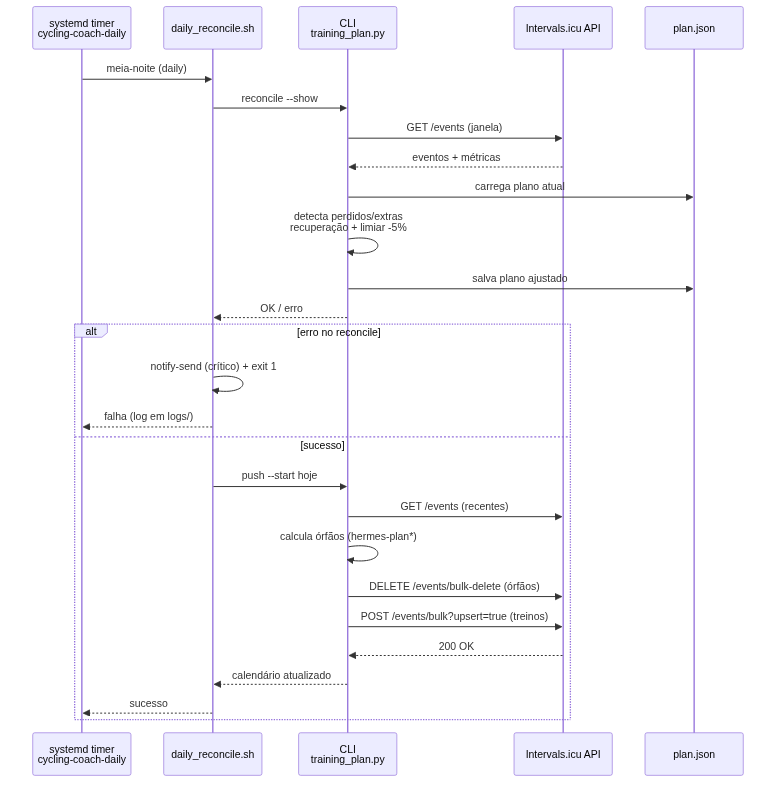
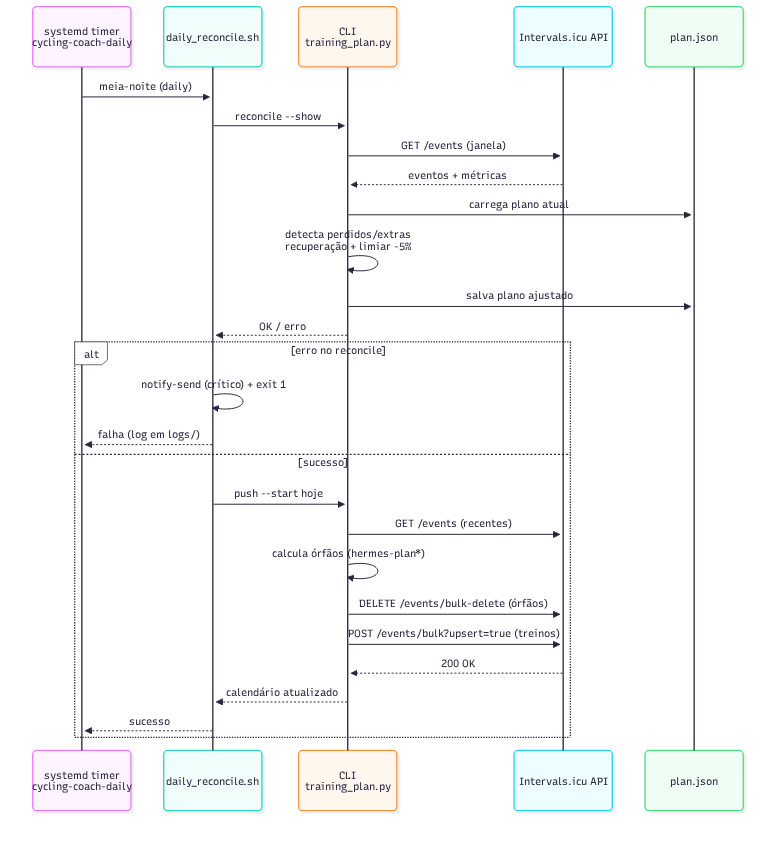
docs: diagramas atualizados para v0.0.27 (check, PERIODIZATION, readiness) e PNGs regenerados

diff --git a/docs/DIAGRAMAS.md b/docs/DIAGRAMAS.md
@@ -1,6 +1,6 @@
 # Diagramas UML — Hermes Coach
 
-Diagramas em [Mermaid](https://mermaid.js.org) do sistema real (v0.0.25).
+Diagramas em [Mermaid](https://mermaid.js.org) do sistema real (v0.0.27).
 Renderizam nativo no Obsidian (bloco ` ```mermaid `) e no GitHub. Os `.mmd`
 fonte vivem em `docs/diagramas/` (geram os `.png` via mermaid-cli).
 
@@ -8,13 +8,14 @@ Legenda rápida dos módulos:
 
 | Módulo | Responsabilidade |
 |---|---|
-| `src/training_plan.py` | CLI: `info` / `ftp-check` / `ftp-scan` / `model` / `recovery` / `build` / `adherence` / `summary` / `reconcile` / `push` / `all` |
+| `src/training_plan.py` | CLI: `info` / `ftp-check` / `ftp-scan` / `check` / `model` / `recovery` / `build` / `adherence` / `summary` / `reconcile` / `push` / `all` |
 | `src/coach.py` | Métricas (TSB/CTL/ATL), foco do dia, prescrição (`WorkoutParams`), TSS estimado |
-| `src/plan.py` | Plano semanal (`build_plan`), ajuste por carga (`_fit_budget`), `reconcile`, texto do treino, `event_payload` |
+| `src/plan.py` | Plano semanal (`build_plan` + `PERIODIZATION`), ajuste por carga (`_fit_budget`), `reconcile`, texto do treino, `event_payload` |
 | `src/impulse_response.py` | Motor Banister local (CTL/ATL/TSB) + séries diárias de TSS |
-| `src/intervals_client.py` | Cliente da API do Intervals.icu (events, wellness, activities, streams, sport-settings) |
+| `src/intervals_client.py` | Cliente da API do Intervals.icu (events, wellness, activities, streams, sport-settings) com retry/backoff |
 | `src/ftp_scan.py` / `ftp_estimation.py` | Análise de treinos fora do plano → proposta de FTP (20min × 0,95) |
 | `src/recovery.py` | Retorno a forma: PMC real (EWMA 42/7) + prazo + rampa segura com deload |
+| `src/readiness.py` | Prontidão do dia (`check`): sinais de wellness (RHR/HRV/sono) → sugestão de troca por recuperação + alerta de início de doença (+ `COACH_WEBHOOK`) |
 | `src/activity_summary.py` | Resumo dos treinos feitos por dia/semana/mês (`summary`) |
 | `src/charts.py` | Gráficos em texto: PMC trailing 90d + carga semanal (TSS/ISO) |
 | `src/report.py` | Relatório com gráficos SVG: HTML direto / PDF via chromium headless (`--export`) |
@@ -29,16 +30,17 @@ Legenda rápida dos módulos:
 ```mermaid
 flowchart LR
     subgraph CLI["CLI — src/training_plan.py"]
-        CMD["info | ftp-check | ftp-scan | model | recovery<br/>build | adherence | summary | reconcile | push | all"]
+        CMD["info | ftp-check | ftp-scan | check | model | recovery<br/>build | adherence | summary | reconcile | push | all"]
     end
 
     subgraph CORE["Motor de coaching"]
         COACH["coach.py<br/>métricas · foco · prescrição"]
-        PLAN["plan.py<br/>build_plan · reconcile · event_payload"]
+        PLAN["plan.py<br/>build_plan · PERIODIZATION · reconcile · event_payload"]
         IR["impulse_response.py<br/>CTL/ATL/TSB local"]
         FTPS["ftp_scan.py + ftp_estimation.py<br/>proposta de FTP"]
         AS["activity_summary.py<br/>resumo por período · pareamento"]
         REC["recovery.py<br/>PMC real + prazo de retorno + rampa"]
+        RD["readiness.py<br/>prontidão: sinais wellness · sugestão de troca · alerta doença"]
     end
 
     subgraph REPORT["Relatório (#21)"]
@@ -48,10 +50,10 @@ flowchart LR
     end
 
     subgraph API["intervals_client.py"]
-        CLIENT["IntervalsClient<br/>events · wellness · activities · streams · sport-settings"]
+        CLIENT["IntervalsClient<br/>events · wellness · activities · streams · sport-settings<br/>(retry/backoff em falhas transitórias)"]
     end
 
-    ENV[".env<br/>credenciais · FTP · agenda · GOAL"]
+    ENV[".env<br/>credenciais · FTP · agenda · GOAL · PERIODIZATION<br/>COACH_WEBHOOK (alerta doença)"]
     PLANFILE["plan.json<br/>plano + meta"]
     SH["scripts/daily_reconcile.sh<br/>(timer systemd meia-noite)"]
 
@@ -64,6 +66,7 @@ flowchart LR
     CMD --> FTPS
     CMD --> AS
     CMD --> REC
+    CMD --> RD
     CMD --> CH
     CMD --> RP
     COACH --> IR
@@ -71,8 +74,10 @@ flowchart LR
     PLAN --> PLANFILE
     COACH --> ENV
     PLAN --> ENV
+    RD --> ENV
     AS --> CLIENT
     REC --> CLIENT
+    RD --> CLIENT
     CLIENT --> INTERVALS
     INTERVALS <--> APPS
     SH --> CMD
@@ -131,9 +136,21 @@ sequenceDiagram
     C->>I: GET /events (60d)
     I-->>C: histórico
     C->>C: latest_metrics → TSB
-    C->>C: build_plan (GOAL + WEEKLY_BY_TSB +<br/>WEEKLY_HOURS + LONG_DAY + budget TSS)
+    C->>C: build_plan (GOAL + PERIODIZATION +<br/>WEEKLY_BY_TSB + WEEKLY_HOURS +<br/>LONG_DAY + budget TSS)
     Note over C: preserva treino de hoje<br/>do plano anterior
     C->>P: salva plan.json (treinos + meta)
+
+    U->>C: check --apply (opcional, v0.0.27)
+    C->>I: GET /wellness (janela)
+    I-->>C: RHR · HRV · sono · readiness
+    C->>C: assess_readiness → sinais
+    alt possível início de doença
+        C-->>U: ALERTA: RHR 2+ noites + HRV caindo
+        C->>C: COACH_WEBHOOK (se configurado)
+    end
+    C->>C: sugere troca por recuperação Z2?
+    Note over C: decisão é do atleta —<br/>nunca impõe
+    C->>P: check --apply: substitui treino de hoje
 
     U->>C: reconcile --show
     C->>I: GET /events (janela)
@@ -218,6 +235,16 @@ classDiagram
         +time_to_target(ctl_now, target, ramp, ...)
         +safe_ramp(target_ctl, weeks, ...)
     }
+    class Readiness {
+        +dict signals
+        +bool illness
+        +str reason
+        +bool has_data
+        +assess_readiness(records, days)
+        +suggest_swap(readiness, planned_today)
+        +recovery_workout(day, ftp) -> PlannedWorkout
+        +coach_alert_payload(atleta_id, readiness, today)
+    }
     class SummaryAgg {
         +int workouts
         +float load
@@ -243,6 +270,8 @@ classDiagram
     ImpulseResponseEngine --> Metrics : computa local
     FTPScan --> IntervalsClient : streams + atividades
     Recovery --> IntervalsClient : eventos históricos
+    Readiness --> IntervalsClient : wellness (RHR/HRV/sono)
+    Readiness --> PlannedWorkout : recovery_workout (check --apply)
     SummaryAgg <-- IntervalsClient : atividades pareadas
     ReportRenderer --> ThemeKit : 22 temas (CSS vars)
     ReportRenderer --> SummaryAgg : cards + tabela
@@ -258,24 +287,27 @@ Fluxo do `build`: do histórico ao plano publicado.
 ```mermaid
 flowchart TD
     A["GET /events (histórico)"] --> B["latest_metrics → TSB atual"]
-    B --> C{"GOAL no .env?"}
-    C -- "não" --> D["WEEKLY_BY_TSB<br/>(padrão por TSB)"]
-    C -- "sim" --> E["GOAL_TEMPLATES[goal]<br/>(ex.: race exige RACE_DATE)"]
+    B --> C{"PERIODIZATION no .env?"}
+    C -- "sim" --> D["PERIODIZATION_TEMPLATES[p]<br/>(polarized|pyramidal|undulating|linear|block)"]
+    C -- "não" --> E{"GOAL no .env?"}
+    E -- "não" --> F["WEEKLY_BY_TSB<br/>(padrão por TSB)"]
+    E -- "sim" --> G["GOAL_TEMPLATES[goal]<br/>(ex.: race exige RACE_DATE)"]
 
-    D --> F["escolhe template semanal<br/>pela faixa de TSB"]
-    E --> F
-    F --> G["preenche slots de TREINO<br/>(TRAINING_DAYS)"]
-    G --> H{"WEEKLY_HOURS?"}
-    H -- "sim" --> I["escala on_sec<br/>(0.5x–1.5x, min 120s)"]
-    H -- "não" --> J["sem ajuste de volume"]
-    I --> K{"LONG_DAY?"}
-    J --> K
-    K -- "sim" --> L["rotaciona ciclo → treino longo<br/>no dia preferido (ou mais próximo)"]
-    K -- "não" --> M["posição natural do foco"]
-    L --> N["_fit_budget: TSS 7d ≤ cap×7<br/>(encurta on_sec, depois on_power)"]
-    M --> N
-    N --> O["salva plan.json<br/>(preserva treino de hoje + meta)"]
-    O --> P["push → POST /events/bulk?upsert=true<br/>(limpa órfãos antes)"]
+    D --> H["escolhe template semanal<br/>pela faixa de TSB"]
+    F --> H
+    G --> H
+    H --> I["preenche slots de TREINO<br/>(TRAINING_DAYS)"]
+    I --> J{"WEEKLY_HOURS?"}
+    J -- "sim" --> K["escala on_sec<br/>(0.5x–1.5x, min 120s)"]
+    J -- "não" --> L["sem ajuste de volume"]
+    K --> M{"LONG_DAY?"}
+    L --> M
+    M -- "sim" --> N["rotaciona ciclo → treino longo<br/>no dia preferido (ou mais próximo)"]
+    M -- "não" --> O["posição natural do foco"]
+    N --> P["_fit_budget: TSS 7d ≤ cap×7<br/>(encurta on_sec, depois on_power)"]
+    O --> P
+    P --> Q["salva plan.json<br/>(preserva treino de hoje + meta)"]
+    Q --> R["push → POST /events/bulk?upsert=true<br/>(limpa órfãos antes)"]
 ```
 
 ---
@@ -287,12 +319,14 @@ stateDiagram-v2
     [*] --> Planejado : build + push (external_id hermes-plan-*)
     Planejado --> Feito : atividade pareada (paired_activity_id)
     Planejado --> Perdido : passa do dia + sem atividade
+    Planejado --> Trocado : check --apply (prontidão abaixo)<br/>recuperação Z2 curta no lugar
     Perdido --> Ajustado : reconcile insere recuperação<br/>e reduz próximo Limiar -5%
     Planejado --> Extra : atividade fora do plano (não-hermes)
     Extra --> Leve : carga ok → plano mantido
     Extra --> Pesado : carga ≥ cap diário (7d)
     Pesado --> Ajustado : recuperação + limiar
     Ajustado --> Feito : treino executado
+    Trocado --> Feito : recuperação executada
     Perdido --> [*] : fim da janela do plano
     Feito --> [*]
 ```
@@ -301,10 +335,12 @@ stateDiagram-v2
 
 ## Notas
 
-- Diagramas gerados a partir do código real (`src/*.py`, v0.0.25, 278 testes OK) —
+- Diagramas gerados a partir do código real (`src/*.py`, v0.0.27, 341 testes OK) —
   não são genéricos. Se o código mudar, atualize aqui junto.
 - Fontes em `docs/diagramas/*.mmd`; os `.png` são regenerados com mermaid-cli.
 - O `.zwo` **não é gerado localmente** (o Intervals monta no app a partir do
   texto de `description`).
 - `plan.json` guarda a meta (goal, race_date, ftp_test_date, ftp_candidates)
   além dos treinos — o `reconcile` reescreve os dias sem mudar o tamanho do plano.
+- A periodização (`PERIODIZATION`) é lida do `.env` no momento do `build` —
+  não fica persistida na meta do `plan.json`.
